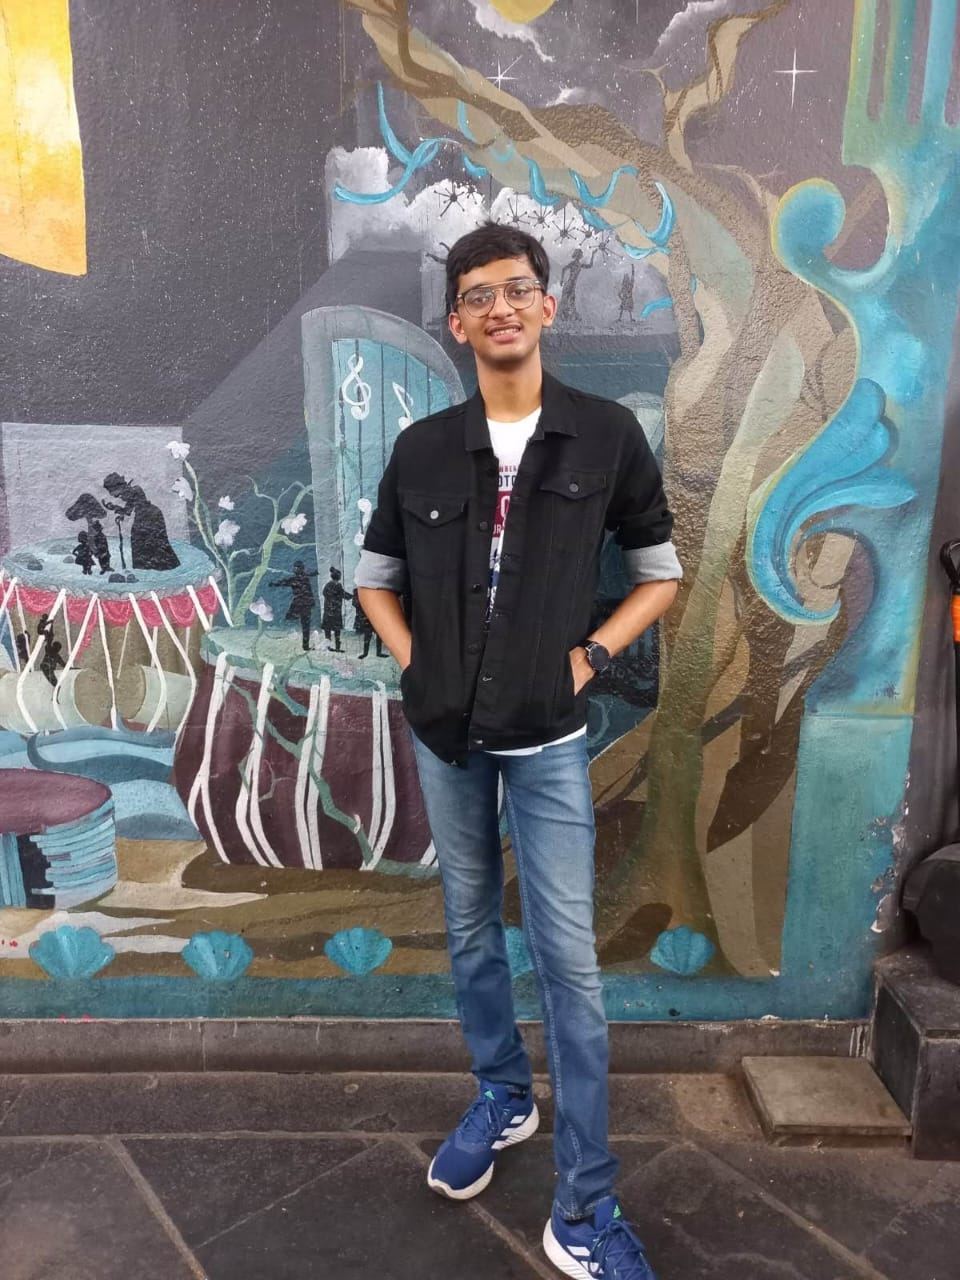
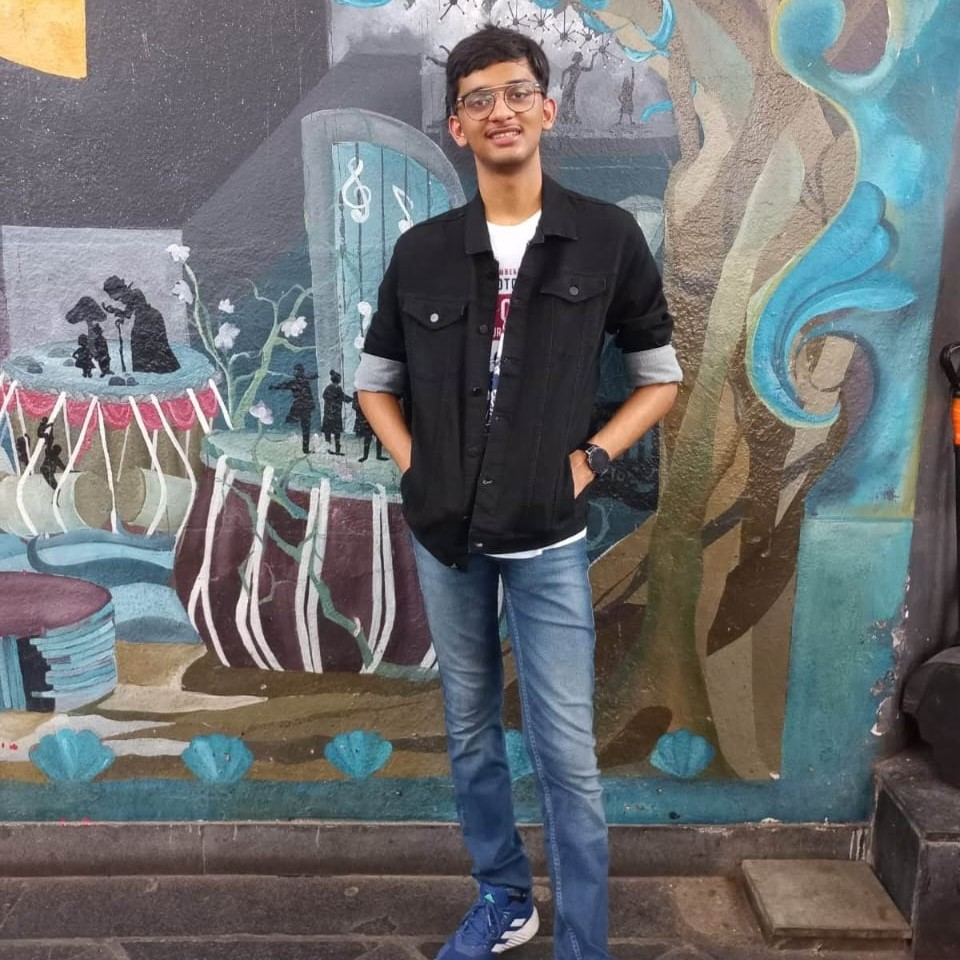
Commit

diff --git a/about.html b/about.html
@@ -7,18 +7,12 @@
   </head>
   <body>
     <header style="text-align: center; font-weight: 500; font-size: 25px">
-      About Me
+      <p>About Me</p>
+      <p>Aarav Shah</p>
     </header>
     <main>
       <div style="width: 100%">
-        <div
-          style="
-            display: inline-block;
-            width: 60%;
-            padding-right: 9%;
-            text-align: justify;
-          "
-        >
+        <div style="display: inline-block; width: 60%; text-align: justify">
           Lorem ipsum dolor sit amet consectetur adipisicing elit. Quibusdam,
           laudantium explicabo necessitatibus illum commodi voluptas harum eaque
           maxime nostrum rerum asperiores itaque distinctio deleniti veniam
@@ -41,26 +35,51 @@
           tempora? Quam, quo expedita? Aperiam cum, in magnam laudantium quidem
           accusantium. Tenetur dolores iure ad architecto, iste adipisci cum
           sapiente facilis doloribus consectetur corporis sed mollitia dolore
-          molestias eos velit ut, aut, delectus qui. Alias, iure modi. Voluptas
-          pariatur consectetur iusto. Consectetur obcaecati modi quibusdam quia
-          cum pariatur reiciendis culpa sit, ipsum ducimus saepe quasi iste
-          assumenda quisquam fugit necessitatibus illo nobis. Qui nam laudantium
-          laboriosam magnam doloremque. Autem, voluptatum dicta? Tempora
-          temporibus at vitae voluptatum laborum fuga, consequuntur quos
-          officiis? Quisquam nihil cupiditate iste veniam nemo! Nulla, officiis
-          totam voluptatem nemo aliquid eaque quibusdam porro iusto
-          reprehenderit illo atque asperiores! Dolorum accusantium, culpa,
-          provident placeat reprehenderit debitis temporibus vitae laudantium
-          molestiae tempore excepturi odit hic fuga repellat ipsum quis minima
-          veritatis velit suscipit quas dolores reiciendis veniam animi at.
-          Tempore. Temporibus debitm quas possimus libero perspiciatis
-          distinctio eligendi illum modint. Magnam ad optio alias maxime
-          eligendi ipsum, corrupti at temporibus obcaecati nam suscipit veniam
-          modi fuga enim beatae distinctio in aliquid inventore quas velit?
-          Nostrum ipsum molestiae deleniti libero alias!
+          molestias eos velit ut, aut, delectum dicta? Tempora temporibus at
+          vitae voluptatum laborum fuga, consequuntur quos officiis? Quisquam
+          nihil cupiditate iste veniam nemo! Nulla, officiis totam voluptatem
+          nemo aliquid eaque quibusdam porro iusto reprehenderit illo atque
+          asperiores! Dolorum accusantium, culpa, provident placeat
+          reprehenderit debitis temporibus vitae laudantium molestiae tempore
+          excepturi odit hic fuga repellat ipsum quis minima veritatis velit
+          suscipit quas dolores reiciendis veniam animi at. Tempore. Temporibus
+          debitm quas possimus libero perspiciatis distinctio eligendi illum
+          modint. Magnam ad optio alias maxime eligendi ipsum, corrupti at
+          temporibus obcaecati nam suscipit veniam modi fuga enim beatae
+          distinctio in aliquid inventore quas velit? Nostrum ipsum molestiae
+          deleniti libero alias! Lorem ipsum dolor sit amet consectetur
+          adipisicing elit. Sunt velit corrupti consequuntur fuga totam, quis
+          quod debitis voluptates, animi dignissimos maxime error? Doloremque,
+          unde neque voluptates explicabo quos sed dolorum. Lorem ipsum dolor
+          sit amet consectetur adipisicing elit. Culpa laboriosam optio iure
+          molestias aperiam sed excepturi magni incidunt quae nostrum vitae, aut
+          dolore illo obcaecati accusantium. Maiores voluptates earum quas. In
+          nihil vero, laudantium ex iusto quam illo qui veniam esse deserunt
+          ipsam facere quia accusamus magnam voluptatum totam explicabo
+          perspiciatis officia distinctio dignissimos quidem fugiat voluptates?
+          Nobis, explicabo rerum. Fuga, consequatur molestiae mollitia
+          consectetur dolore et necessitatibus, ab atque eos minima eligendi
+          harum voluptatibus est molestias sed quis! Doloribus accusamus
+          voluptates libero dolore, commodi a qui repudiandae vel sapiente!
+          Ducimus, suscipit aspernatur omnis nesciunt ratione dolor quos id
+          beatae nemo. Suscipit ab laborum itaque centore, architecto pariatur,
+          doloremque quae quod ratione saepe mollitia dignissimos impedit
+          quibusdam deserunt! Magni rerum quod nesciunt consequuntur dolorem
+          eius facilis asperiores, esse labore culpa odio?
         </div>
-        <div style="display: inline">
-          <img src="images/self-photo.jpg" width="25%" alt="self_image" />
+        <div
+          style="
+            display: inline;
+            align-content: last baseline;
+            padding-left: 9%;
+          "
+        >
+          <img
+            src="images/self-photo.jpg"
+            width="25%"
+            alt="self_image"
+            style="border-radius: 50%"
+          />
         </div>
       </div>
     </main>

diff --git a/index.html b/index.html
@@ -38,7 +38,7 @@
         <div id="About" style="display: inline-block; width: 100%">
           <iframe
             src="about.html"
-            style="border: 50px; width: 100%; height: 500px"
+            style="border: 50px; width: 100%; height: 750px"
             <!--
             need
             to
